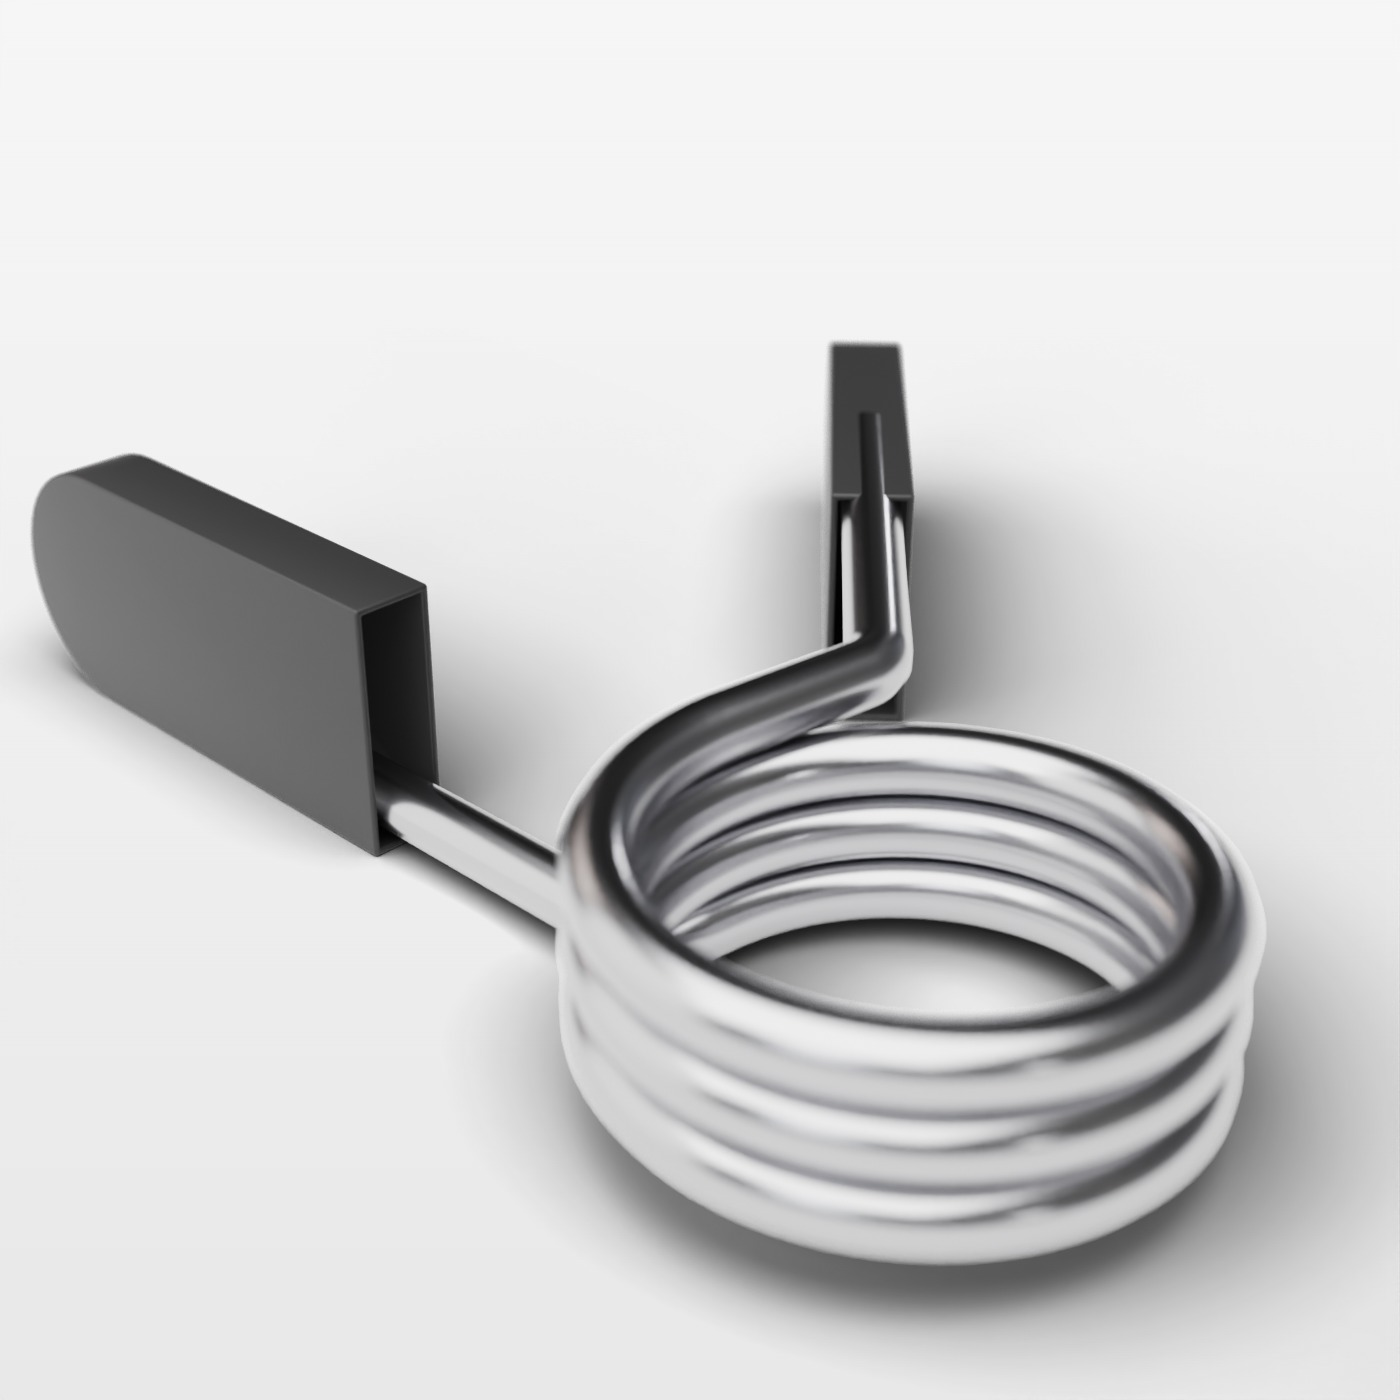
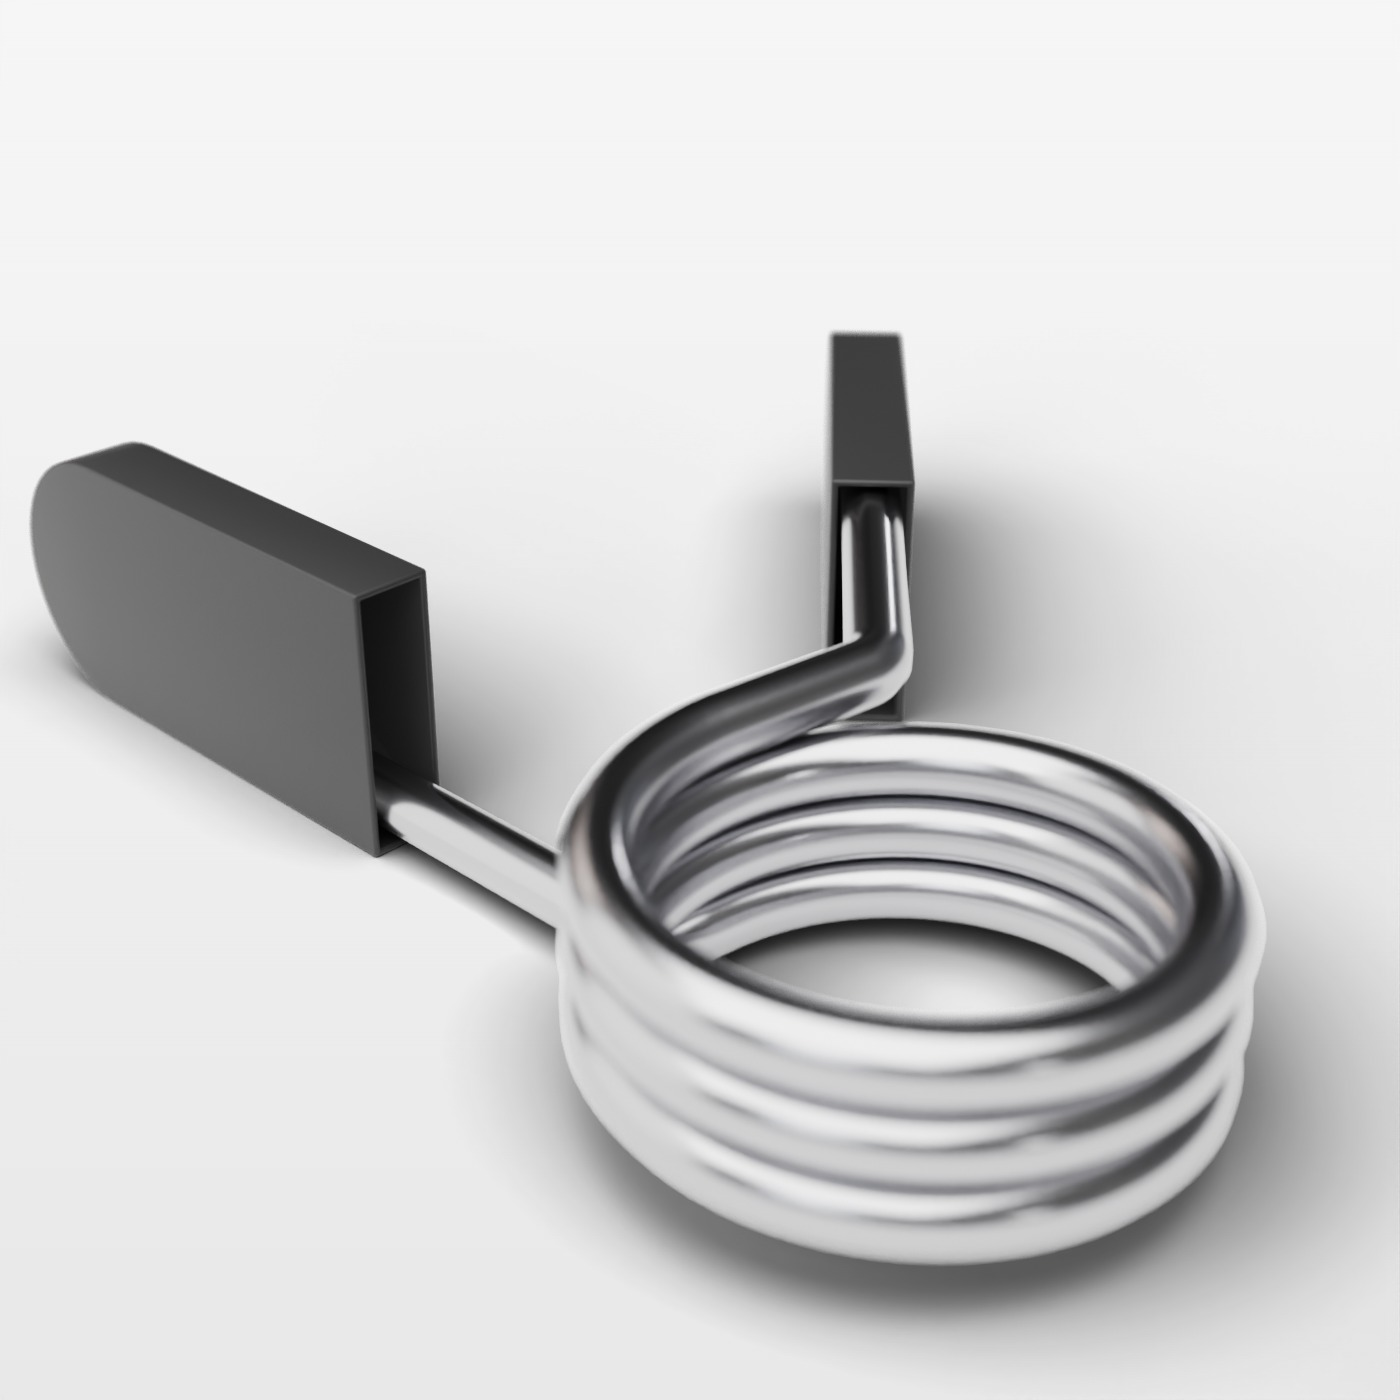
Pince : le fil reste dans la fente des gaines
Le fil de la spire du haut dépassait de 1,3 mm par la paroi de la gaine :
entre ses deux bouts, la spirale fait quatre épaisseurs de fil de haut.
Les gaines passent à 0,52 D de haut (35 mm), centrées sur le fil, avec une
paroi de 0,9 mm. Vérifié par calcul pour les deux gaines (marge d'au moins
0,4 mm). Tous les rendus de la pince sont refaits.

Claude-Session: https://claude.ai/code/session_01D9n9ZZi5fk6puDFh7TyVoC

Changed region(s): [[0.0, 0.3071, 0.3071, 0.4607], [0.5836, 0.215, 0.6757, 0.3686]]

diff --git a/3d/prototypes/05-colliers/planche.html b/3d/prototypes/05-colliers/planche.html
@@ -28,8 +28,8 @@ figure.w img{width:782px;height:440px;object-fit:cover;display:block}
     <li><span class="lbl2">La spirale est à plat :</span> trois spires serrées d'un fil rond. Elle fait trois épaisseurs de fil de haut, et le fil mesure 1/8 de son diamètre.</li>
     <li><span class="lbl2">Les deux bouts partent du même point de l'anneau</span>, en ligne droite : celui de la spire du haut part d'un côté, celui de la spire du bas de l'autre. Chacun reste à sa hauteur, puis se coude vers l'extérieur. Les deux branches forment un V d'environ 50°.</li>
     <li><span class="lbl2">Les gaines sont posées sur la tranche</span>, dans l'axe de leur branche. Leurs grandes faces sont verticales : c'est là qu'on appuie. Elles posent au sol avec la spirale et la dépassent un peu en hauteur. Le bout est arrondi. L'ouverture a une fente où entre le fil, en haut pour une gaine, en bas pour l'autre.</li>
-    <li><span class="lbl2">Les proportions</span> sont mesurées sur ses images : gaines de 1,1 diamètre de long et 0,49 de haut, branches de 0,55.</li>
-    <li><span class="lbl2">La taille.</span> Le modèle est une pince pour les barres de 25 à 28 mm. La nôtre garde ses proportions mais s'ouvre sur 51 mm, pour la barre olympique : fil de 7,8 mm, gaines de 73 × 33 × 10,5 mm.</li>
+    <li><span class="lbl2">Les proportions</span> sont mesurées sur ses images : gaines de 1,1 diamètre de long et un peu plus hautes que la spirale (0,52), branches de 0,55. Le fil reste dans la fente : il ne traverse jamais la paroi.</li>
+    <li><span class="lbl2">La taille.</span> Le modèle est une pince pour les barres de 25 à 28 mm. La nôtre garde ses proportions mais s'ouvre sur 51 mm, pour la barre olympique : fil de 7,8 mm, gaines de 73 × 35 × 10,5 mm.</li>
     <li><span class="lbl2">Le rendu :</span> un acier satiné (pas un miroir), un caoutchouc gris anthracite, un studio gris très clair aux ombres douces. L'image principale est sur fond gris foncé, comme celle du modèle.</li>
   </ul>
 </section>

diff --git a/3d/outils/planche_colliers.py b/3d/outils/planche_colliers.py
@@ -85,8 +85,8 @@ notes = '''
     <li><span class="lbl2">La spirale est à plat :</span> trois spires serrées d'un fil rond. Elle fait trois épaisseurs de fil de haut, et le fil mesure 1/8 de son diamètre.</li>
     <li><span class="lbl2">Les deux bouts partent du même point de l'anneau</span>, en ligne droite : celui de la spire du haut part d'un côté, celui de la spire du bas de l'autre. Chacun reste à sa hauteur, puis se coude vers l'extérieur. Les deux branches forment un V d'environ 50°.</li>
     <li><span class="lbl2">Les gaines sont posées sur la tranche</span>, dans l'axe de leur branche. Leurs grandes faces sont verticales : c'est là qu'on appuie. Elles posent au sol avec la spirale et la dépassent un peu en hauteur. Le bout est arrondi. L'ouverture a une fente où entre le fil, en haut pour une gaine, en bas pour l'autre.</li>
-    <li><span class="lbl2">Les proportions</span> sont mesurées sur ses images : gaines de 1,1 diamètre de long et 0,49 de haut, branches de 0,55.</li>
-    <li><span class="lbl2">La taille.</span> Le modèle est une pince pour les barres de 25 à 28 mm. La nôtre garde ses proportions mais s'ouvre sur 51 mm, pour la barre olympique : fil de 7,8 mm, gaines de 73 × 33 × 10,5 mm.</li>
+    <li><span class="lbl2">Les proportions</span> sont mesurées sur ses images : gaines de 1,1 diamètre de long et un peu plus hautes que la spirale (0,52), branches de 0,55. Le fil reste dans la fente : il ne traverse jamais la paroi.</li>
+    <li><span class="lbl2">La taille.</span> Le modèle est une pince pour les barres de 25 à 28 mm. La nôtre garde ses proportions mais s'ouvre sur 51 mm, pour la barre olympique : fil de 7,8 mm, gaines de 73 × 35 × 10,5 mm.</li>
     <li><span class="lbl2">Le rendu :</span> un acier satiné (pas un miroir), un caoutchouc gris anthracite, un studio gris très clair aux ombres douces. L'image principale est sur fond gris foncé, comme celle du modèle.</li>
   </ul>
 </section>

diff --git a/3d/outils/blender/colliers.py b/3d/outils/blender/colliers.py
@@ -104,14 +104,15 @@ RC = (0.051 + WIRE) / 2                # centre line of the coil: 51 mm inside
 D = 2 * RC + WIRE                      # 66.6 mm outside
 PITCH = WIRE + 0.0002                  # turns touching
 TURNS = 3
-SL_L, SL_W, SL_T = 1.1 * D, 0.49 * D, 1.35 * WIRE   # sleeve: length, width (along the coil axis), thickness
+SL_L, SL_W, SL_T = 1.1 * D, 0.52 * D, 1.35 * WIRE   # sleeve: length, width (along the coil axis), thickness
+SL_WALL = 0.0009                                     # sleeve wall: the wire must stay inside the slot (22/11)
 LEG_UP = dict(run=0.30 * D, to=139.0, r=0.10 * D, straight=0.57 * D)     # top turn: up, then up-left
 LEG_LOW = dict(run=0.03 * D, to=188.0, r=0.10 * D, straight=0.55 * D)    # bottom turn: down, then left
-SL_Z0 = -TURNS * PITCH / 2 - WIRE / 2 - 0.0012     # bottom of the sleeves: just under the coil's bottom
+SL_Z0 = -TURNS * PITCH / 2 - WIRE / 2 - SL_WALL - 0.0004   # bottom of the sleeves: the bottom wire sits just inside the slot
 GROUND = -SL_Z0                         # lying flat, the clip rests on its sleeves and its coil
 
 
-def sleeve(name, E, d, wdir, m, L, w, t, wall=0.0009):
+def sleeve(name, E, d, wdir, m, L, w, t, wall=SL_WALL):
     """Sleeve: open end (with a slot) at E, rounded tip, pointing along d, its width along wdir.
     Local axes: X = thickness, Y = along the sleeve, Z = width."""
     out = [(0.0, -w / 2), (L - w / 2, -w / 2)] + [((L - w / 2) + (w / 2) * math.cos(a), (w / 2) * math.sin(a))

diff --git a/3d/charte.md b/3d/charte.md
@@ -71,7 +71,7 @@ Les petites mentions (« KG » sur les disques) sont ton sur ton : de la couleur
 ### Les colliers
 
 Deux modèles seulement : **la pince à ressort** et **le collier à levier**, d'après les références de l'utilisateur (étape 7, en cours de validation).
-- **La pince :** d'après le modèle choisi par l'utilisateur (22/11). La spirale est à plat, trois spires serrées d'un fil d'acier satiné (1/8 du diamètre). Les deux bouts partent du même point de l'anneau, chacun à sa hauteur, puis s'écartent en V d'environ 50°. Les gaines en caoutchouc anthracite sont posées sur la tranche, leurs grandes faces verticales, bout arrondi et ouverture à fente. Elles posent au sol avec la spirale. Dimensions pour la barre olympique : 51 mm dedans, fil de 7,8 mm, gaines de 73 × 33 × 10,5 mm.
+- **La pince :** d'après le modèle choisi par l'utilisateur (22/11). La spirale est à plat, trois spires serrées d'un fil d'acier satiné (1/8 du diamètre). Les deux bouts partent du même point de l'anneau, chacun à sa hauteur, puis s'écartent en V d'environ 50°. Les gaines en caoutchouc anthracite sont posées sur la tranche, leurs grandes faces verticales, bout arrondi et ouverture à fente. Elles posent au sol avec la spirale. Dimensions pour la barre olympique : 51 mm dedans, fil de 7,8 mm, gaines de 73 × 35 × 10,5 mm. Le fil reste toujours dans la fente de la gaine (paroi de 0,9 mm).
 
 ## Gardé de côté
 
